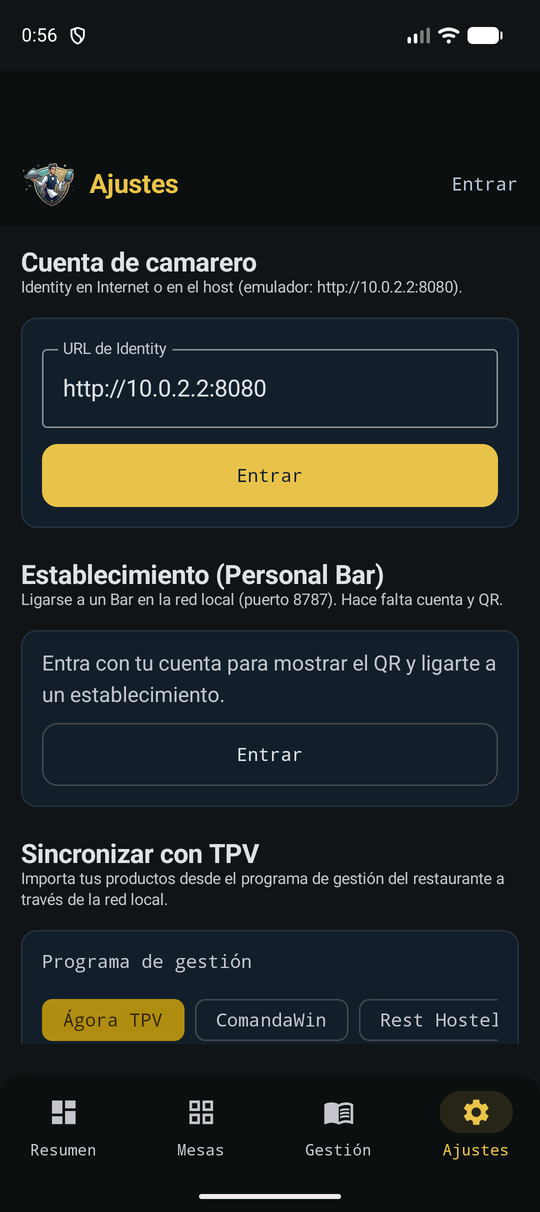
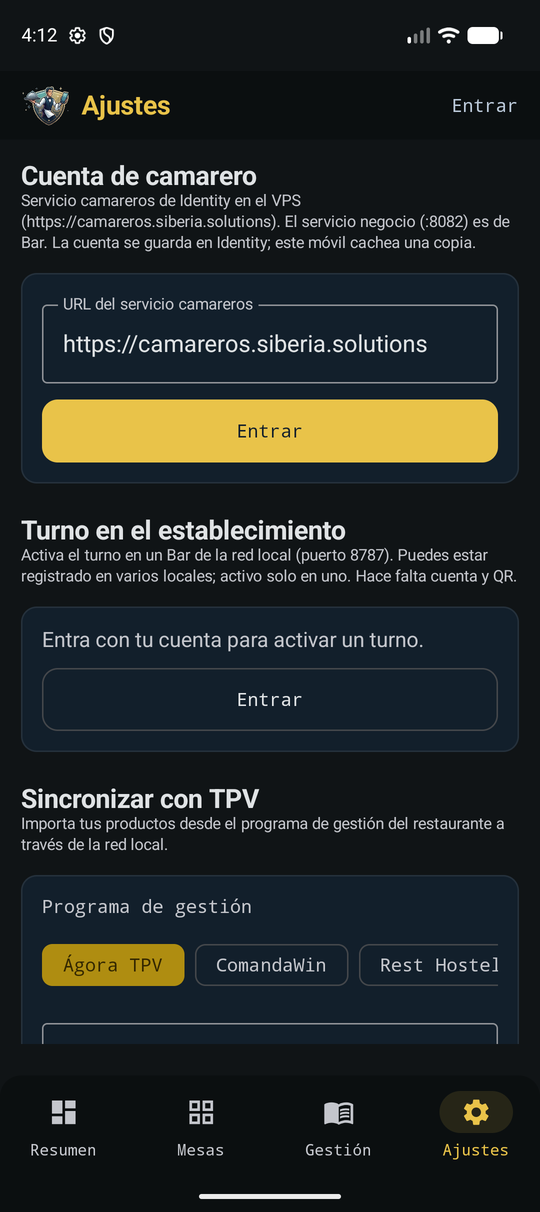
release: preparar corte v1.6 (versionCode 7, docs y capturas)
El APK y la ficha publica deben coincidir: Identity VPS, Entrar en el header y turno LAN ya no son en desarrollo.

diff --git a/README.es.md b/README.es.md
@@ -13,7 +13,7 @@ Español · [English](README.md)
 [![License](https://img.shields.io/github/license/jaminsmoke/PersonalComander?color=%23E9C349)](LICENSE)
 [![Kotlin](https://img.shields.io/badge/Kotlin-2.4.10-7F52FF?logo=kotlin&logoColor=white)](https://kotlinlang.org)
 
-**v1.5** · Android 7.0+ (API 24) · [🌐 Sitio](https://jaminsmoke.github.io/PersonalComander/) · [📖 Wiki](https://github.com/jaminsmoke/PersonalComander/wiki)
+**v1.6** · Android 7.0+ (API 24) · [🌐 Sitio](https://jaminsmoke.github.io/PersonalComander/) · [📖 Wiki](https://github.com/jaminsmoke/PersonalComander/wiki)
 
 </div>
 
@@ -29,7 +29,7 @@ Español · [English](README.md)
 - 💾 **Copia de seguridad** — exportación/importación JSON de toda la base de datos.
 - 🌙 **Tema dark premium** — design system navy & gold, theming dinámico en Android 12+.
 - 🌍 **Bilingüe** — interfaz en español e inglés.
-- 👤 **Cuenta de camarero y establecimiento (v1.6)** — perfil, credencial QR, salas y rondas a Personal Bar en desarrollo.
+- 👤 **Cuenta de camarero y establecimiento** — login Identity (chip **Entrar** del header), QR de ficha pública, palancas de visibilidad y turno Bar en LAN.
 
 ## 📱 Capturas
 
@@ -37,7 +37,7 @@ Español · [English](README.md)
 |:---:|:---:|:---:|:---:|:---:|
 | <img src="docs/screenshots/home.png" width="180"> | <img src="docs/screenshots/mesas_board.png" width="180"> | <img src="docs/screenshots/menu.png" width="180"> | <img src="docs/screenshots/comanda.png" width="180"> | <img src="docs/screenshots/ajustes.png" width="180"> |
 
-La release descargable actual es la **v1.5**. La identidad del camarero, las salas del establecimiento y la integración con Personal Bar se preparan para la **v1.6** en `main`; consulta las [notas de flujos v1.6](docs/flujos-v16.md).
+La release descargable es la **v1.6**: identidad del camarero (VPS), QR de ficha pública y turno LAN con Personal Bar. Consulta las [notas de flujos v1.6](docs/flujos-v16.md).
 
 ## 🚀 Primeros pasos
 
@@ -72,7 +72,7 @@ En el primer arranque la app crea un menú de demostración y un plano de mesas 
 3. **Comanda** — añade productos por voz o con el dedo, revisa la cuenta, envíala a cocina y ciérrala al cobrar.
 4. **Menú** — gestiona productos, precios, categorías e iconos.
 5. **Ajustes** — configura el servidor TPV, importa/exporta copias y sincroniza el catálogo.
-6. **Cuenta y establecimiento (v1.6)** — inicia sesión, gestiona la credencial QR, conecta el local y envía rondas a Personal Bar. Está en desarrollo y no se incluye en el APK v1.5.
+6. **Cuenta y establecimiento** — pulsa **Entrar** en el header (no en Ajustes) para iniciar sesión en Identity, abre el chip de perfil para QR/visibilidad, y activa el turno Bar en Ajustes → establecimiento.
 
 ## 🖼 Regenerar capturas y assets de marca
 
@@ -111,7 +111,7 @@ app/src/main/java/com/jaminsmoke/personalcomander/
 
 ## 🗺 Roadmap
 
-- **v1.6** — identidad del camarero, salas del establecimiento, rondas a Personal Bar y validación de documentación en PRs.
+- **v1.7** — siguiente ciclo (campo kanban Versión v1.7).
 - Más adelante — funcionalidades premium (ver modelo de licencia).
 
 ## 🤝 Contribuir

diff --git a/README.md b/README.md
@@ -13,7 +13,7 @@
 [![License](https://img.shields.io/github/license/jaminsmoke/PersonalComander?color=%23E9C349)](LICENSE)
 [![Kotlin](https://img.shields.io/badge/Kotlin-2.4.10-7F52FF?logo=kotlin&logoColor=white)](https://kotlinlang.org)
 
-**v1.5** · Android 7.0+ (API 24) · [🌐 Site](https://jaminsmoke.github.io/PersonalComander/) · [📖 Wiki](https://github.com/jaminsmoke/PersonalComander/wiki)
+**v1.6** · Android 7.0+ (API 24) · [🌐 Site](https://jaminsmoke.github.io/PersonalComander/) · [📖 Wiki](https://github.com/jaminsmoke/PersonalComander/wiki)
 
 </div>
 
@@ -29,7 +29,7 @@
 - 💾 **Backup & restore** — JSON import/export of the whole database.
 - 🌙 **Dark premium theme** — navy & gold design system, dynamic theming on Android 12+.
 - 🌍 **Bilingual** — Spanish and English UI.
-- 👤 **Waiter account and venue connection (v1.6)** — profile, QR credential, rooms and Personal Bar rounds in development.
+- 👤 **Waiter account and venue** — Identity login (header **Entrar**), public profile QR, visibility switches, and Personal Bar LAN shift.
 
 ## 📱 Screenshots
 
@@ -37,7 +37,7 @@
 |:---:|:---:|:---:|:---:|:---:|
 | <img src="docs/screenshots/home.png" width="180"> | <img src="docs/screenshots/mesas_board.png" width="180"> | <img src="docs/screenshots/menu.png" width="180"> | <img src="docs/screenshots/comanda.png" width="180"> | <img src="docs/screenshots/ajustes.png" width="180"> |
 
-The downloadable release is currently **v1.5**. Waiter identity, venue rooms and Personal Bar integration are being prepared for **v1.6** on `main`; see the [v1.6 flow notes](docs/flujos-v16.md).
+The downloadable release is **v1.6**: waiter identity (VPS), public profile QR, LAN shift with Personal Bar. See the [v1.6 flow notes](docs/flujos-v16.md).
 
 ## 🚀 Getting started
 
@@ -72,7 +72,7 @@ The first launch seeds a demo menu and a default table layout, so you can explor
 3. **Order** — add products by tapping or by voice, review the ticket, send it to the kitchen and close it when paid.
 4. **Menu** — manage products, prices, categories and icons.
 5. **Settings** — configure the TPV server, import/export backups, and sync the catalog.
-6. **Account and venue (v1.6)** — sign in, manage the QR credential, connect to a venue and send rounds to Personal Bar. This is in development and not included in the v1.5 APK.
+6. **Account and venue** — tap **Entrar** in the header (not Settings) to sign in with Identity, open the profile chip for QR/visibility, and start a Bar shift from Settings → venue.
 
 ## 🖼 Regenerar capturas y assets de marca
 
@@ -111,7 +111,7 @@ app/src/main/java/com/jaminsmoke/personalcomander/
 
 ## 🗺 Roadmap
 
-- **v1.6** — waiter identity, venue rooms, Personal Bar rounds, and documentation validation in PRs.
+- **v1.7** — next cycle (kanban Versión v1.7).
 - Later — premium features (see licensing model).
 
 ## 🤝 Contributing

diff --git a/docs/flujos-v16.md b/docs/flujos-v16.md
@@ -1,7 +1,7 @@
 # Flujos v1.6
 
-!!! warning "Estado de esta página"
-    Estos flujos están en desarrollo en `main` y no forman parte todavía del APK público v1.5. La [release actual](https://github.com/jaminsmoke/PersonalComander/releases/latest) sigue siendo v1.5.
+!!! note "Estado de esta página"
+    Estos flujos forman parte del APK **v1.6**. La [release actual](https://github.com/jaminsmoke/PersonalComander/releases/latest) es v1.6.
 
 Esta página conecta la documentación técnica con el [manual de usuario de la wiki](https://github.com/jaminsmoke/PersonalComander/wiki). Describe qué ocurre en la aplicación cuando se usa identidad de camarero y cuando el dispositivo se liga a un establecimiento.
 
@@ -15,10 +15,10 @@ Bar no crea cuentas de camarero: las asigna al establecimiento. El nick visible 
 
 ## Cuenta del camarero
 
-1. Desde **Ajustes**, abre **Cuenta**.
-2. Regístrate o inicia sesión contra Identity.
-3. Abre **Perfil** para revisar nombre, email, teléfono y avatar.
-4. El perfil muestra el QR de credencial, que se puede renovar o revocar.
+1. En el header, pulsa **Entrar** (`PcSesionChip`; no hace falta ir a Ajustes).
+2. Inicia sesión o regístrate contra Identity en el VPS (`https://camareros.siberia.solutions`).
+3. Con sesión, el mismo chip (avatar + nick) abre **Mi perfil**: nick, foto, visibilidad de ficha, QR y **Ver mi ficha**.
+4. El turno en un Bar de la red local se activa en **Ajustes → Turno en el establecimiento**.
 
 Revocar el QR invalida la credencial actual. Renovarlo genera una nueva credencial. Cerrar sesión no elimina la cuenta; borrar la cuenta es una acción separada y requiere confirmación.
 
@@ -43,10 +43,10 @@ El contrato de payload, los códigos HTTP y la idempotencia están documentados 
 
 ## Estado de publicación
 
-| Flujo | v1.5 | v1.6 en `main` |
+| Flujo | v1.5 | v1.6 |
 |---|---:|---:|
 | Board, mesas y comandas locales | Disponible | Disponible |
 | Voz y parser on-device | Disponible | Disponible |
 | TPV y backup JSON | Disponible | Disponible |
-| Cuenta, perfil y QR | No incluido | En desarrollo |
-| Establecimiento, salas y ronda a Bar | No incluido | En desarrollo |
+| Cuenta, perfil, QR y visibilidad | No incluido | Disponible |
+| Establecimiento, salas y ronda a Bar | No incluido | Disponible |

diff --git a/AGENTS.md b/AGENTS.md
@@ -8,7 +8,7 @@ It is **not** the venue back office. That job belongs to **Personal Bar** (sibli
 
 - Package: `com.jaminsmoke.personalcomander`
 - Min SDK: 24 · Target SDK: 36 · Compile SDK: 37
-- Version: 1.5 (versionCode 6)
+- Version: 1.6 (versionCode 7)
 - Repo: `jaminsmoke/PersonalComander`
 
 ## Stack
@@ -158,7 +158,7 @@ Detectado → Debate → Roadmap → Ejecutando → Verificando → Changelog
 
 **No skipping**: every item advances in order. Exception: `Cancelado` → Changelog.
 
-**Version always > latest release**: consult `gh release list`, pick the next one. Latest publicada: **v1.5**. Release en curso: **v1.6**. Ítems posteriores: **v1.7** (opción ya creada en el campo Versión).
+**Version always > latest release**: consult `gh release list`. Tras publicar **v1.6**, los ítems nuevos van a **v1.7**.
 
 #### 1. Detectado — Describir el problema a fondo
 
@@ -281,7 +281,7 @@ Con la decisión ya tomada y acordada en la fase anterior, detallar **mucho más
 KANBAN="bun run devartifacts/jarvis-skills/packages/kanban-cli/cli.ts"
 
 # Create item
-$KANBAN create --title "..." --tipo Bug --area UI/UX --priority Alta --version "v1.6"
+$KANBAN create --title "..." --tipo Bug --area UI/UX --priority Alta --version "v1.7"
 
 # List
 $KANBAN list

diff --git a/docs/index.md b/docs/index.md
@@ -27,8 +27,8 @@ Manual en la [Wiki](https://github.com/jaminsmoke/PersonalComander/wiki) · [Doc
 
 <div class="pc-aviso" markdown>
 
-!!! info "v1.6 en desarrollo"
-    El APK actual es **v1.5**. Los flujos de cuenta de camarero, establecimiento, salas y Personal Bar llegan en v1.6. [Detalle de flujos](flujos-v16.md).
+!!! info "v1.6"
+    El APK actual es **v1.6**: cuenta de camarero (Identity en el VPS), ficha pública, visibilidad y turno LAN con Personal Bar. [Detalle de flujos](flujos-v16.md).
 
 </div>
 
@@ -74,9 +74,9 @@ Manual en la [Wiki](https://github.com/jaminsmoke/PersonalComander/wiki) · [Doc
 
     Interfaz en español e inglés.
 
-- :material-account-network: **Cuenta y sala (v1.6)**
+- :material-account-network: **Cuenta y sala**
 
-    Perfil de camarero, QR, establecimiento, salas y envío de rondas a Personal Bar. En desarrollo.
+    Perfil de camarero, QR de ficha pública, visibilidad y envío de rondas a Personal Bar.
 
 </div>
 

diff --git a/docs/sala-protocol.md b/docs/sala-protocol.md
@@ -92,7 +92,7 @@ Pendiente de lista blanca **no** es una invitación de cuenta. Las invitaciones 
 
 Si Bar falla el POST, la comanda local permanece enviada y el tablet muestra un aviso.
 
-Este flujo pertenece a v1.6 en desarrollo. La release pública v1.5 funciona en modo Local y no incluye la integración completa de establecimiento.
+Este flujo está en el APK **v1.6**. La v1.5 pública funcionaba en modo Local y no incluía la integración completa de establecimiento.
 
 ## Payload de ronda
 
